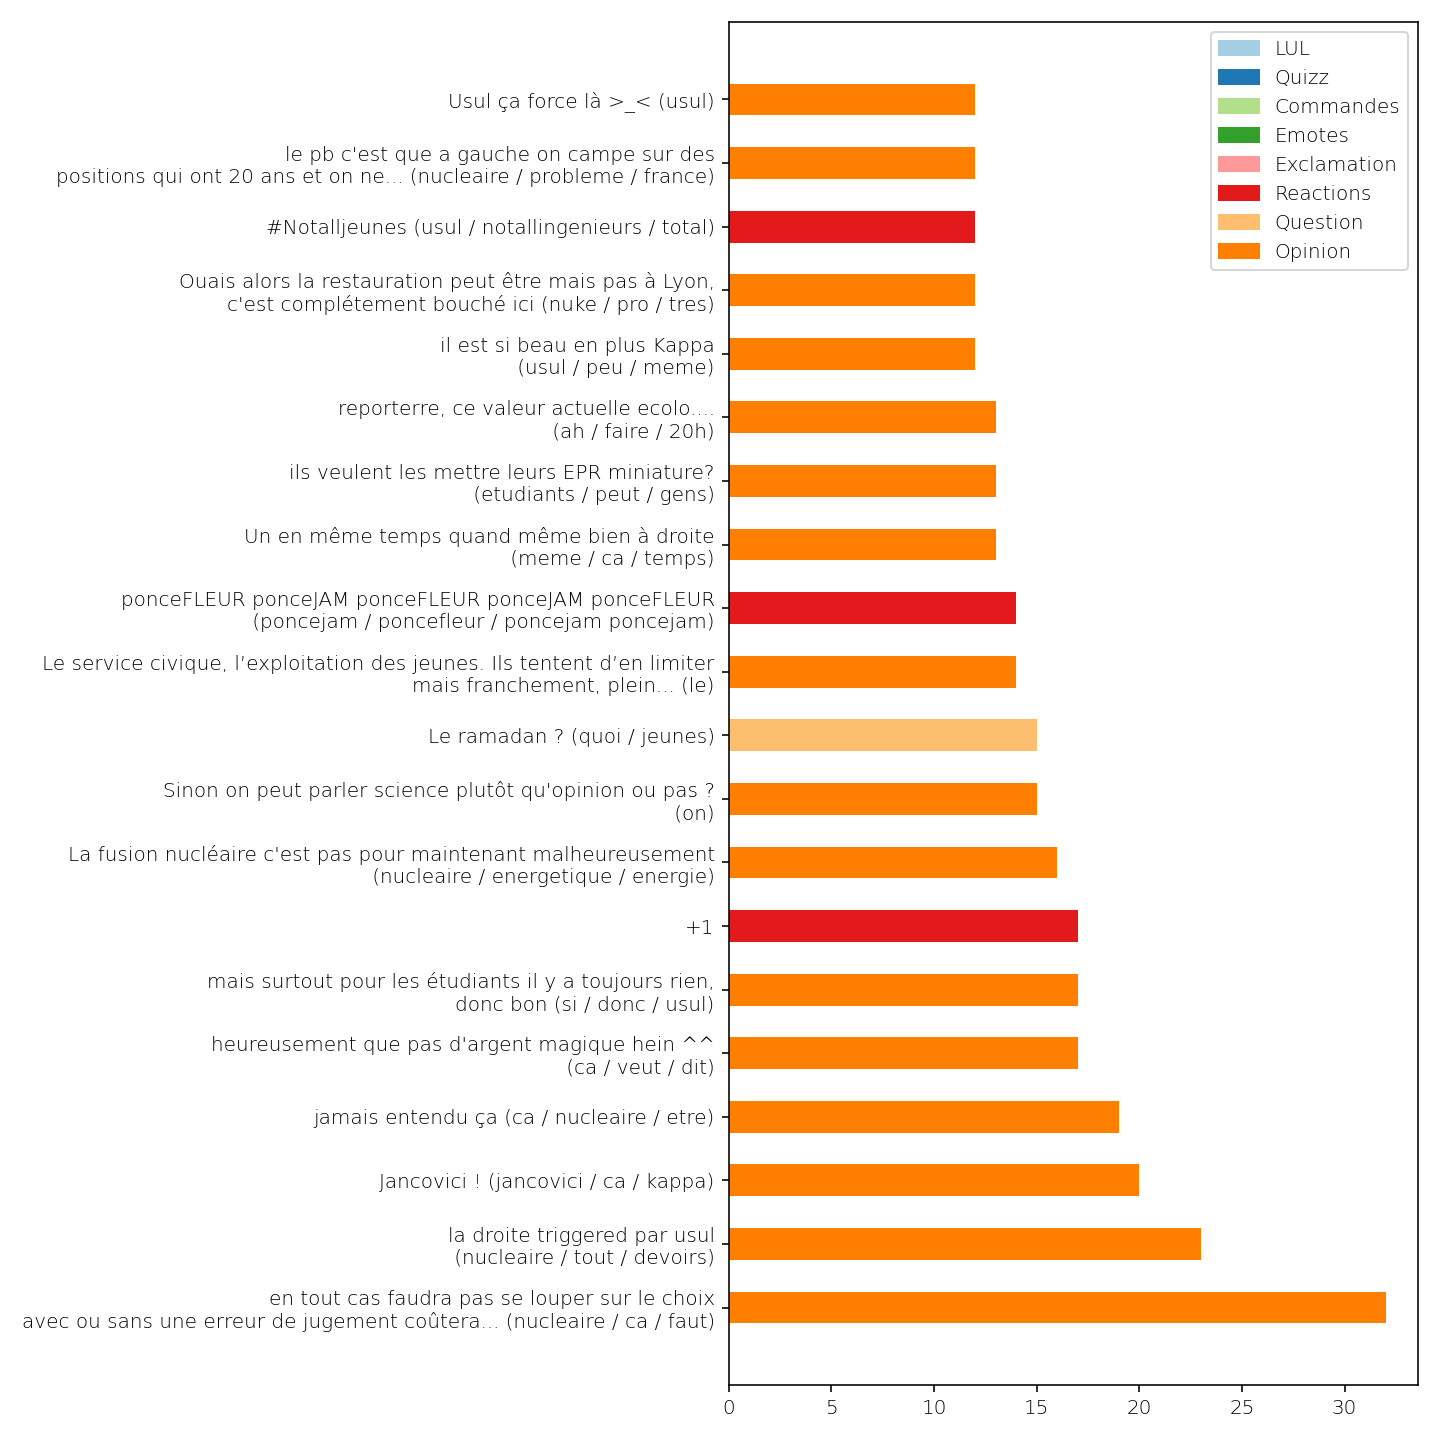
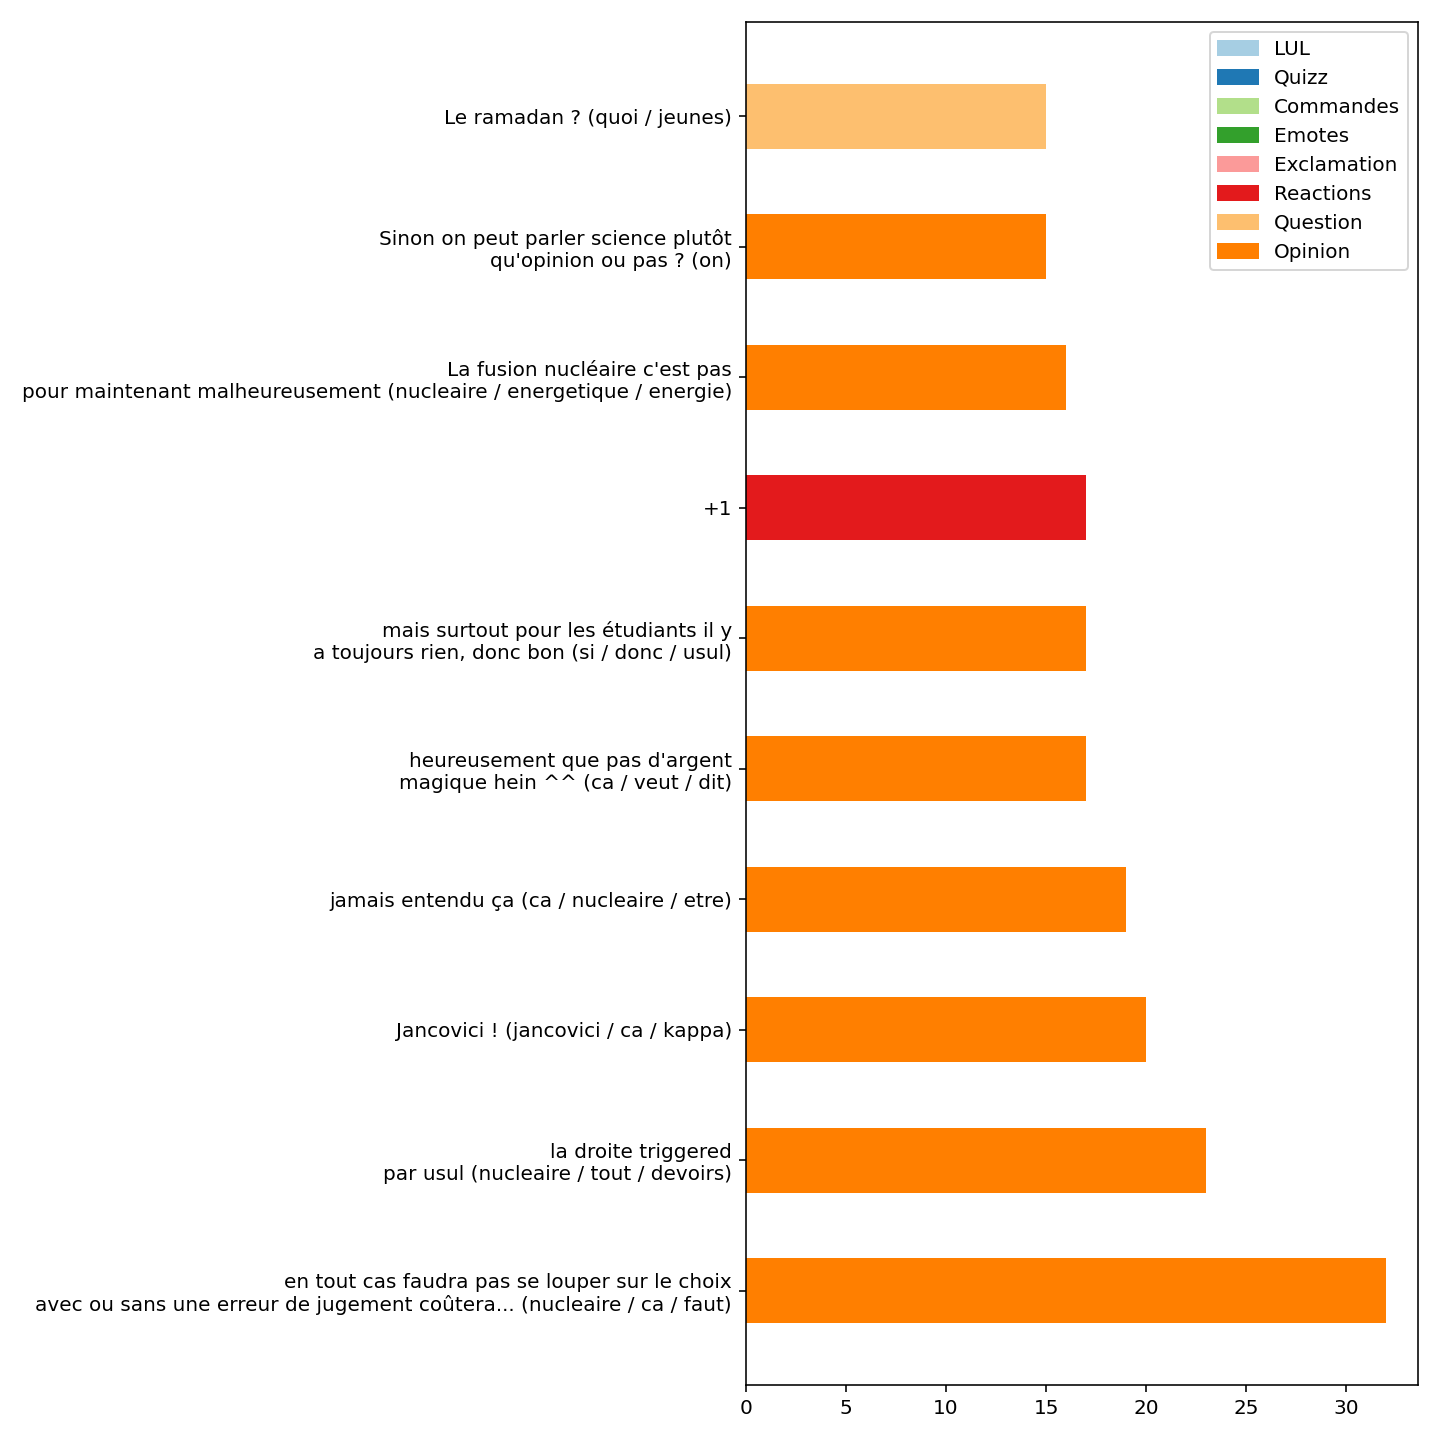
better fix

diff --git a/scripts/backseat_chart_over_time.py b/scripts/backseat_chart_over_time.py
@@ -169,7 +169,7 @@ def main(tokenizer_file, scale, debut_stream_str, fin_stream_str, clustering_dir
         fig = plt.figure(figsize=(10, 10), dpi=144, tight_layout=True)
         plt.barh(stream_windows_stats.best_textual_description, stream_windows_stats.message_count,
                  height=0.5, color=stream_windows_stats.color)
-        plt.legend(handles=patches, loc=1)
+        plt.legend(handles=patches, loc=1, facecolor='white')
 
         fig.savefig(os.path.join(save_directory, f'scale_{scale}_{outfile_name}.png'))
 
@@ -181,10 +181,10 @@ if __name__ == '__main__':
     scale = 600
     window_time_sec = scale
     top_n_ploted = 10
-    debut_stream_str = '2021-11-04 19:10'
-    fin_stream_str = '2021-11-04 22:00'
-    chart_race = True
-    # exclude = ['LUL', 'Quizz', 'Commandes', 'Emotes']
-    exclude = ['LUL', 'Commandes', 'Emotes']
+    debut_stream_str = '2021-11-04 21:50'
+    fin_stream_str = '2021-11-04 22:10'
+    chart_race = False
+    exclude = ['LUL', 'Quizz', 'Commandes', 'Emotes']
+    # exclude = ['LUL', 'Commandes', 'Emotes']
 
     main(tokenizer_file, scale, debut_stream_str, fin_stream_str, clustering_directory, window_time_sec, top_n_ploted, exclude, chart_race)

diff --git a/README.md b/README.md
@@ -78,11 +78,7 @@ L'ensemble des clusters [ici](./assets/scale_600/print_clusters.txt) en texte.
 
 3. Le script `scripts/backseat_chart_over_time.py` retourne un graphique en barre avec les sujets plus discutés sur une fenêtre temporelle. Par exemple entre 19h30 et 20h00 :
 
-<div style="background-color:white">
-
 ![1930_2000](./assets/scale_600/scale_600_1930_2000.png)
-
-<div>
 
 Et la version vidéo: https://youtu.be/EcjvlE9aTls
 
